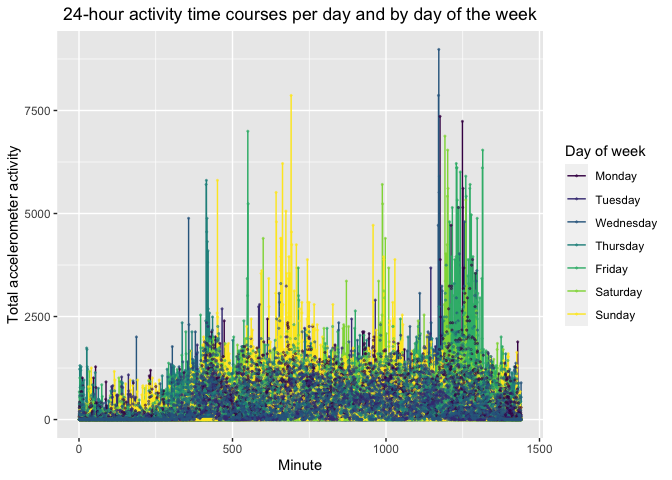
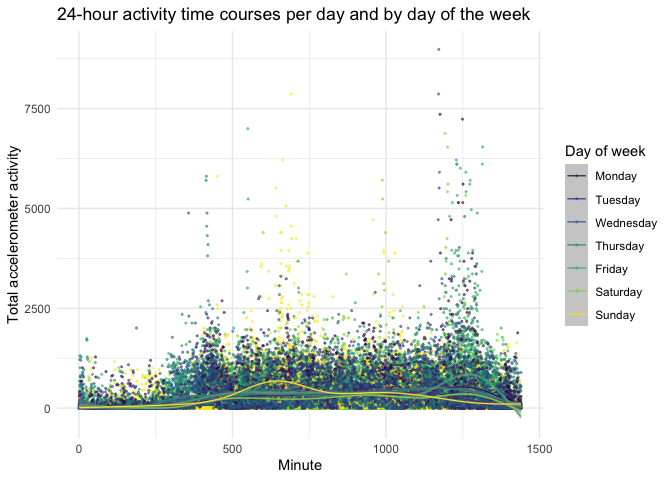
Formatting edits

diff --git a/p8105_hw3_jdr2191.md b/p8105_hw3_jdr2191.md
@@ -98,25 +98,25 @@ instacartdow_df %>%
 
 ![](p8105_hw3_jdr2191_files/figure-gfm/exploratory_analyses-3.png)<!-- -->
 
-The plot “The sum of items ordered in each aisle among aisles with more
+*The plot “The sum of items ordered in each aisle among aisles with more
 than 10,000 items ordered” shows us in a sample of 500 observations the
 density of items that have been ordered before vs. items that have not
 been ordered before, broken out by day of the week and hour of the day.
 We can see from this plot that patterns differ depending on the day of
 the week and that generally speaking, most items are ordered between the
-hours of 7am and 7pm.
+hours of 7am and 7pm.*
 
-The plot “Number of Aisles per Department” displays all 21 departments
+*The plot “Number of Aisles per Department” displays all 21 departments
 and the number of aisles per each department in descending order. This
 shows us that the top 3 departments with the most aisles are “personal
-care”, “pantry” and “snacks”.
+care”, “pantry” and “snacks”.*
 
-The plot “Total number of orders placed by day of the week” displays the
-total number of orders placed by the day of the week. From this table,
-we see that the most orders are placed on Sundays, followed by Mondays
-and Saturdays. The fewest orders are placed on Wednesdays.
+*The plot “Total number of orders placed by day of the week” displays
+the total number of orders placed by the day of the week. From this
+table, we see that the most orders are placed on Sundays, followed by
+Mondays and Saturdays. The fewest orders are placed on Wednesdays.*
 
-There are 1384617 observations and 15 variables in the instacart
+*There are 1384617 observations and 15 variables in the instacart
 dataset. Each row in the dataset represents an item ordered by a
 particular customer. Example products ordered include Bulgarian Yogurt,
 Organic 4% Milk Fat Whole Milk Cottage Cheese, Organic Celery Hearts,
@@ -126,7 +126,7 @@ vegetables, canned meat seafood, fresh fruits and different departments,
 including for example, dairy eggs, produce, canned goods, beverages,
 deli. The dataset provides detailed information about the hour and day
 of the week that orders are placed and even tells us the order in which
-products were added to orders.
+products were added to orders.*
 
 **How many aisles are there, and which aisles are the most items ordered
 from?**
@@ -137,13 +137,11 @@ aisles =
     group_by(aisle_id, aisle) %>% 
     summarize(sum_products_ordered = n()) %>% 
     arrange(desc(sum_products_ordered))
-
-view(aisles)
 ```
 
-There are 134 aisles. The top four aisles for the most items ordered
+*There are 134 aisles. The top four aisles for the most items ordered
 from are fresh vegetables, fresh fruits, packaged vegetables fruits,
-yogurt.
+yogurt.*
 
 **Make a plot that shows the number of items ordered in each aisle,
 limiting this to aisles with more than 10000 items ordered. Arrange
@@ -167,7 +165,12 @@ aislesplot %>%
   xlab("Aisle Name") + ylab("Total number of products ordered")
 ```
 
-![](p8105_hw3_jdr2191_files/figure-gfm/aisles_plot-1.png)<!-- -->
+![](p8105_hw3_jdr2191_files/figure-gfm/aisles_plot-1.png)<!-- --> *Among
+items that have been ordered more than 10,000 times, the aisle with the
+most items ordered is `fresh vegetables` and the aisle with the fewest
+items ordered is `butter`. The only aisles with more than 50,000 items
+ordered are `fresh vegetables`, `fresh fruits`,
+`packaged vegetables fruits`, and `yogurt`.*
 
 **Make a table showing the three most popular items in each of the
 aisles “baking ingredients”, “dog food care”, and “packaged vegetables
@@ -199,6 +202,13 @@ knitr::kable(topthree)
 | packaged vegetables fruits | Organic Raspberries                           |            5546 |
 | packaged vegetables fruits | Organic Blueberries                           |            4966 |
 
+*The most popular item in the `baking ingredients` aisle is Light Brown
+Sugar, with the item being ordered 499 times. The most popular item in
+the `dog food care` aisle is Snack Sticks Chicken & Rice Recipe Dog
+Treats, with the item being ordered 30 times. The most popular item in
+the `packaged vegetables fruits` aisle is Organic Baby Spinach, with the
+item being ordered 9,784 times.*
+
 **Make a table showing the mean hour of the day at which Pink Lady
 Apples and Coffee Ice Cream are ordered on each day of the week; format
 this table for human readers (i.e. produce a 2 x 7 table).**
@@ -228,18 +238,22 @@ knitr::kable(appleicecream)
 | Pink Lady Apples |  13 |  11 |  12 |  14 |  12 |  13 |  12 |
 | Coffee Ice Cream |  14 |  14 |  15 |  15 |  15 |  12 |  14 |
 
+*Pink lady apples are most often ordered in the late morning/early
+afternoon as the mean hour ordered is 12pm. Coffee ice cream is most
+often ordered in the early afternoon as the mean hour ordered is 2pm.*
+
 # Problem 2
 
-\*\*Data Cleaning Steps:
+**Data Cleaning Steps:**
 
--   Format the data to use appropriate variable names
+-   **Format the data to use appropriate variable names**
 
--   Focus on the “Overall Health” topic
+-   **Focus on the “Overall Health” topic**
 
--   Include only responses from “Excellent” to “Poor”
+-   **Include only responses from “Excellent” to “Poor”**
 
--   Organize responses as a factor taking levels ordered from “Poor” to
-    “Excellent”\*\*
+-   **Organize responses as a factor taking levels ordered from “Poor”
+    to “Excellent”**
 
 ``` r
 data("brfss_smart2010")
@@ -250,8 +264,6 @@ brfss_tidy = brfss_smart2010 %>%
   filter(response %in% c("Poor","Fair","Good","Very good","Excellent")) %>%
   mutate(response_factor = factor(response, ordered = TRUE, 
                            levels = c("Poor", "Fair", "Good", "Very good", "Excellent")))
-
-view(brfss_tidy)
 ```
 
 **In 2002, which states were observed at 7 or more locations? What about
@@ -279,11 +291,11 @@ brfss_2010locations = brfss_tidy %>%
 view(brfss_2010locations)
 ```
 
-In 2002, 6 states were observed at 7 or more locations. They are CT, FL,
-MA, NC, NJ, PA.
+*In 2002, 6 states were observed at 7 or more locations. They are CT,
+FL, MA, NC, NJ, PA.*
 
-In 2010, 14 states were observed at 7 or more locations. They are CA,
-CO, FL, MA, MD, NC, NE, NJ, NY, OH, PA, SC, TX, WA.
+*In 2010, 14 states were observed at 7 or more locations. They are CA,
+CO, FL, MA, MD, NC, NE, NJ, NY, OH, PA, SC, TX, WA.*
 
 **Construct a dataset that is limited to Excellent responses, and
 contains, year, state, and a variable that averages the data\_value
@@ -304,18 +316,21 @@ brfssexcellent_df2 = brfssexcellent_df %>%
   subset(select = c(year, locationabbr,meandatavalue)) %>%
   unique()
 
-view(brfssexcellent_df2)
-
 brfssexcellent_df2 %>%
   ggplot(aes(x = year, y = meandatavalue)) + 
   geom_line(aes(group = locationabbr, color = locationabbr), size = .9, alpha = .5) +
-  geom_point(aes(group = locationabbr, color = locationabbr), size = .4, alpha = .5) +
+  geom_point(aes(group = locationabbr, color = locationabbr), size = .6, alpha = .5) +
   labs(x = "Year", y = "Mean data value", col = "State") +
   ggtitle("Among excellent responses, the average data value by state") +
   theme(plot.title = element_text(hjust = 0.5)) 
 ```
 
 ![](p8105_hw3_jdr2191_files/figure-gfm/avg_value_plot-1.png)<!-- -->
+*The lowest mean data value was recorded in 2005 in West Virginia. The
+highest mean data value was recorded in 2002 in Utah. Most of the mean
+data values are clustered between 20 and 25 over the 8 year period from
+2002 to 2010. There appears to be a slight decline in mean data values
+over this 8 year period.*
 
 **Make a two-panel plot showing, for the years 2006, and 2010,
 distribution of data\_value for responses (“Poor” to “Excellent”) among
@@ -340,10 +355,11 @@ brfss20062010_df %>%
 ```
 
 ![](p8105_hw3_jdr2191_files/figure-gfm/2006_2010_plots-1.png)<!-- -->
-
-``` r
-view(brfss20062010_df)
-```
+*The distribution of responses are relatively similar between 2006 and
+2010. Both poor and fair values reach a higher peak in 2006 than in
+2010. Good values reach a higher peak in 2010 than in 2006. There
+appears to be greater overlap among excellent, good and very good values
+in 2006 as compared with 2010.*
 
 # Problem 3
 
@@ -375,12 +391,12 @@ accel = read_csv("accel_data.csv") %>%
         rename(activity_count = activity)
 ```
 
-There are 50400 observations and 6 variables in the tidied accelerometer
-dataset. The dataset includes data over 35 days (5 weeks). The dataset
-also indicates the day of the week that the measurements come from and
-an activity count for every minute in a 24-hour period. Lastly, there is
-a newly added variable day\_class that indicates if the day of the week
-is a weekday or a weekend.
+*There are 50400 observations and 6 variables in the tidied
+accelerometer dataset. The dataset includes data over 35 days (5 weeks).
+The dataset also indicates the day of the week that the measurements
+come from and an activity count for every minute in a 24-hour period.
+Lastly, there is a newly added variable day\_class that indicates if the
+day of the week is a weekday or a weekend.*
 
 **Traditional analyses of accelerometer data focus on the total activity
 over the day. Using your tidied dataset, aggregate accross minutes to
@@ -391,11 +407,7 @@ showing these totals. Are any trends apparent?**
 accelagg = accel %>%
   group_by(day_id, day) %>%
   summarize(agg_sum = sum(activity_count))
-```
 
-    ## `summarise()` has grouped output by 'day_id'. You can override using the `.groups` argument.
-
-``` r
 knitr::kable(accelagg)
 ```
 
@@ -438,8 +450,6 @@ knitr::kable(accelagg)
 |      35 | Wednesday | 445366.00 |
 
 ``` r
-view(accelagg)
-
 accelagg %>%
   ggplot(aes(x = day, y = agg_sum, group = day), color = factor(day)) + 
   geom_boxplot(aes(fill = day)) +
@@ -450,11 +460,10 @@ accelagg %>%
 ```
 
 ![](p8105_hw3_jdr2191_files/figure-gfm/aggregate_accel_trends-1.png)<!-- -->
-
-After I made the table, I plotted these data in a boxplots in order to
+*After I made the table, I plotted these data in a boxplots in order to
 better observe trends. Using the boxplots, we see that the patient is
 most active on Fridays. His activity is highly variable on Saturdays and
-not very variable on Wednesdays.
+least variable on Wednesdays.*
 
 **Accelerometer data allows the inspection activity over the course of
 the day. Make a single-panel plot that shows the 24-hour activity time
@@ -463,12 +472,20 @@ in words any patterns or conclusions you can make based on this graph.**
 
 ``` r
 accel %>%
-  ggplot(aes(x = minute, y = activity_count, group = day)) + 
-  geom_line(aes(group = day, color = day)) +
-  geom_point(aes(group = day, color = day), size = .4, alpha = .5) +
+  ggplot(aes(x = minute, y = activity_count, group = day, color = day)) + 
+  geom_point(size = .4, alpha = .5) +
+  geom_smooth(method = "gam", formula = y ~ s(x, bs = "cs"), size = 0.4, alpha = 0.5) +
   labs(x = "Minute", y = "Total accelerometer activity", col = "Day of week") +
   ggtitle("24-hour activity time courses per day and by day of the week") +
-  theme(plot.title = element_text(hjust = 0.5)) 
+  theme(plot.title = element_text(hjust = 0.5)) + theme_minimal()
 ```
 
 ![](p8105_hw3_jdr2191_files/figure-gfm/accelermoeter_plot-1.png)<!-- -->
+*The plot shows that the start of the day has low accelermoeter activity
+whereas the middle to the end of the day has higher accelermoeter
+activity. The majority of the minutes throughout the day have
+accelermoeter activity below 2,500. Using the geom\_smooth lines, we see
+that the means for all of the days never reach above 1,250, with Friday
+reaching the highest mean peak around minute 1,250. Around minute 700,
+Sunday has many accelermoeter values above 2,500. In general,
+accelermoeter activity appears to peak around minute 1,200.*
